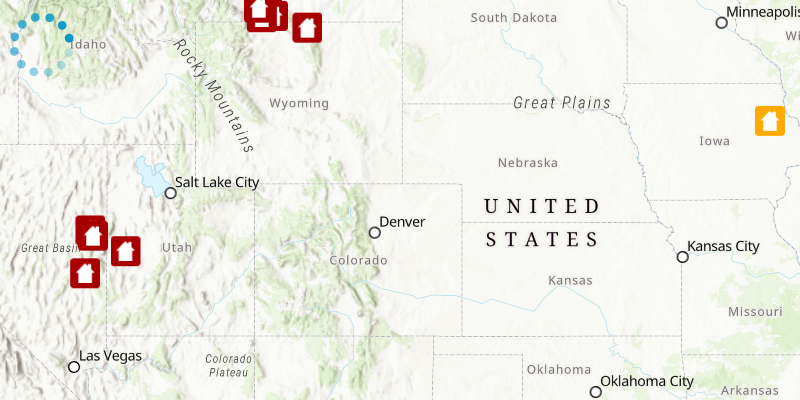
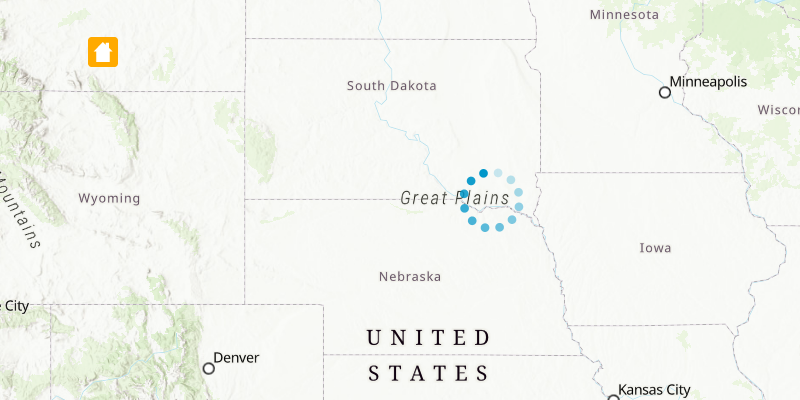
Updated progress indicator location

diff --git a/map_view/display-drawing-status/src/main/java/com/esri/samples/display_drawing_status/DisplayDrawingStatusSample.java b/map_view/display-drawing-status/src/main/java/com/esri/samples/display_drawing_status/DisplayDrawingStatusSample.java
@@ -90,7 +90,7 @@ public class DisplayDrawingStatusSample extends Application {
 
       // add the map view and progress indicator to stack pane
       stackPane.getChildren().addAll(mapView, progressIndicator);
-      StackPane.setAlignment(progressIndicator, Pos.TOP_LEFT);
+      StackPane.setAlignment(progressIndicator, Pos.CENTER);
       StackPane.setMargin(progressIndicator, new Insets(10, 0, 0, 10));
     } catch (Exception e) {
       // on any error, display the stack trace
